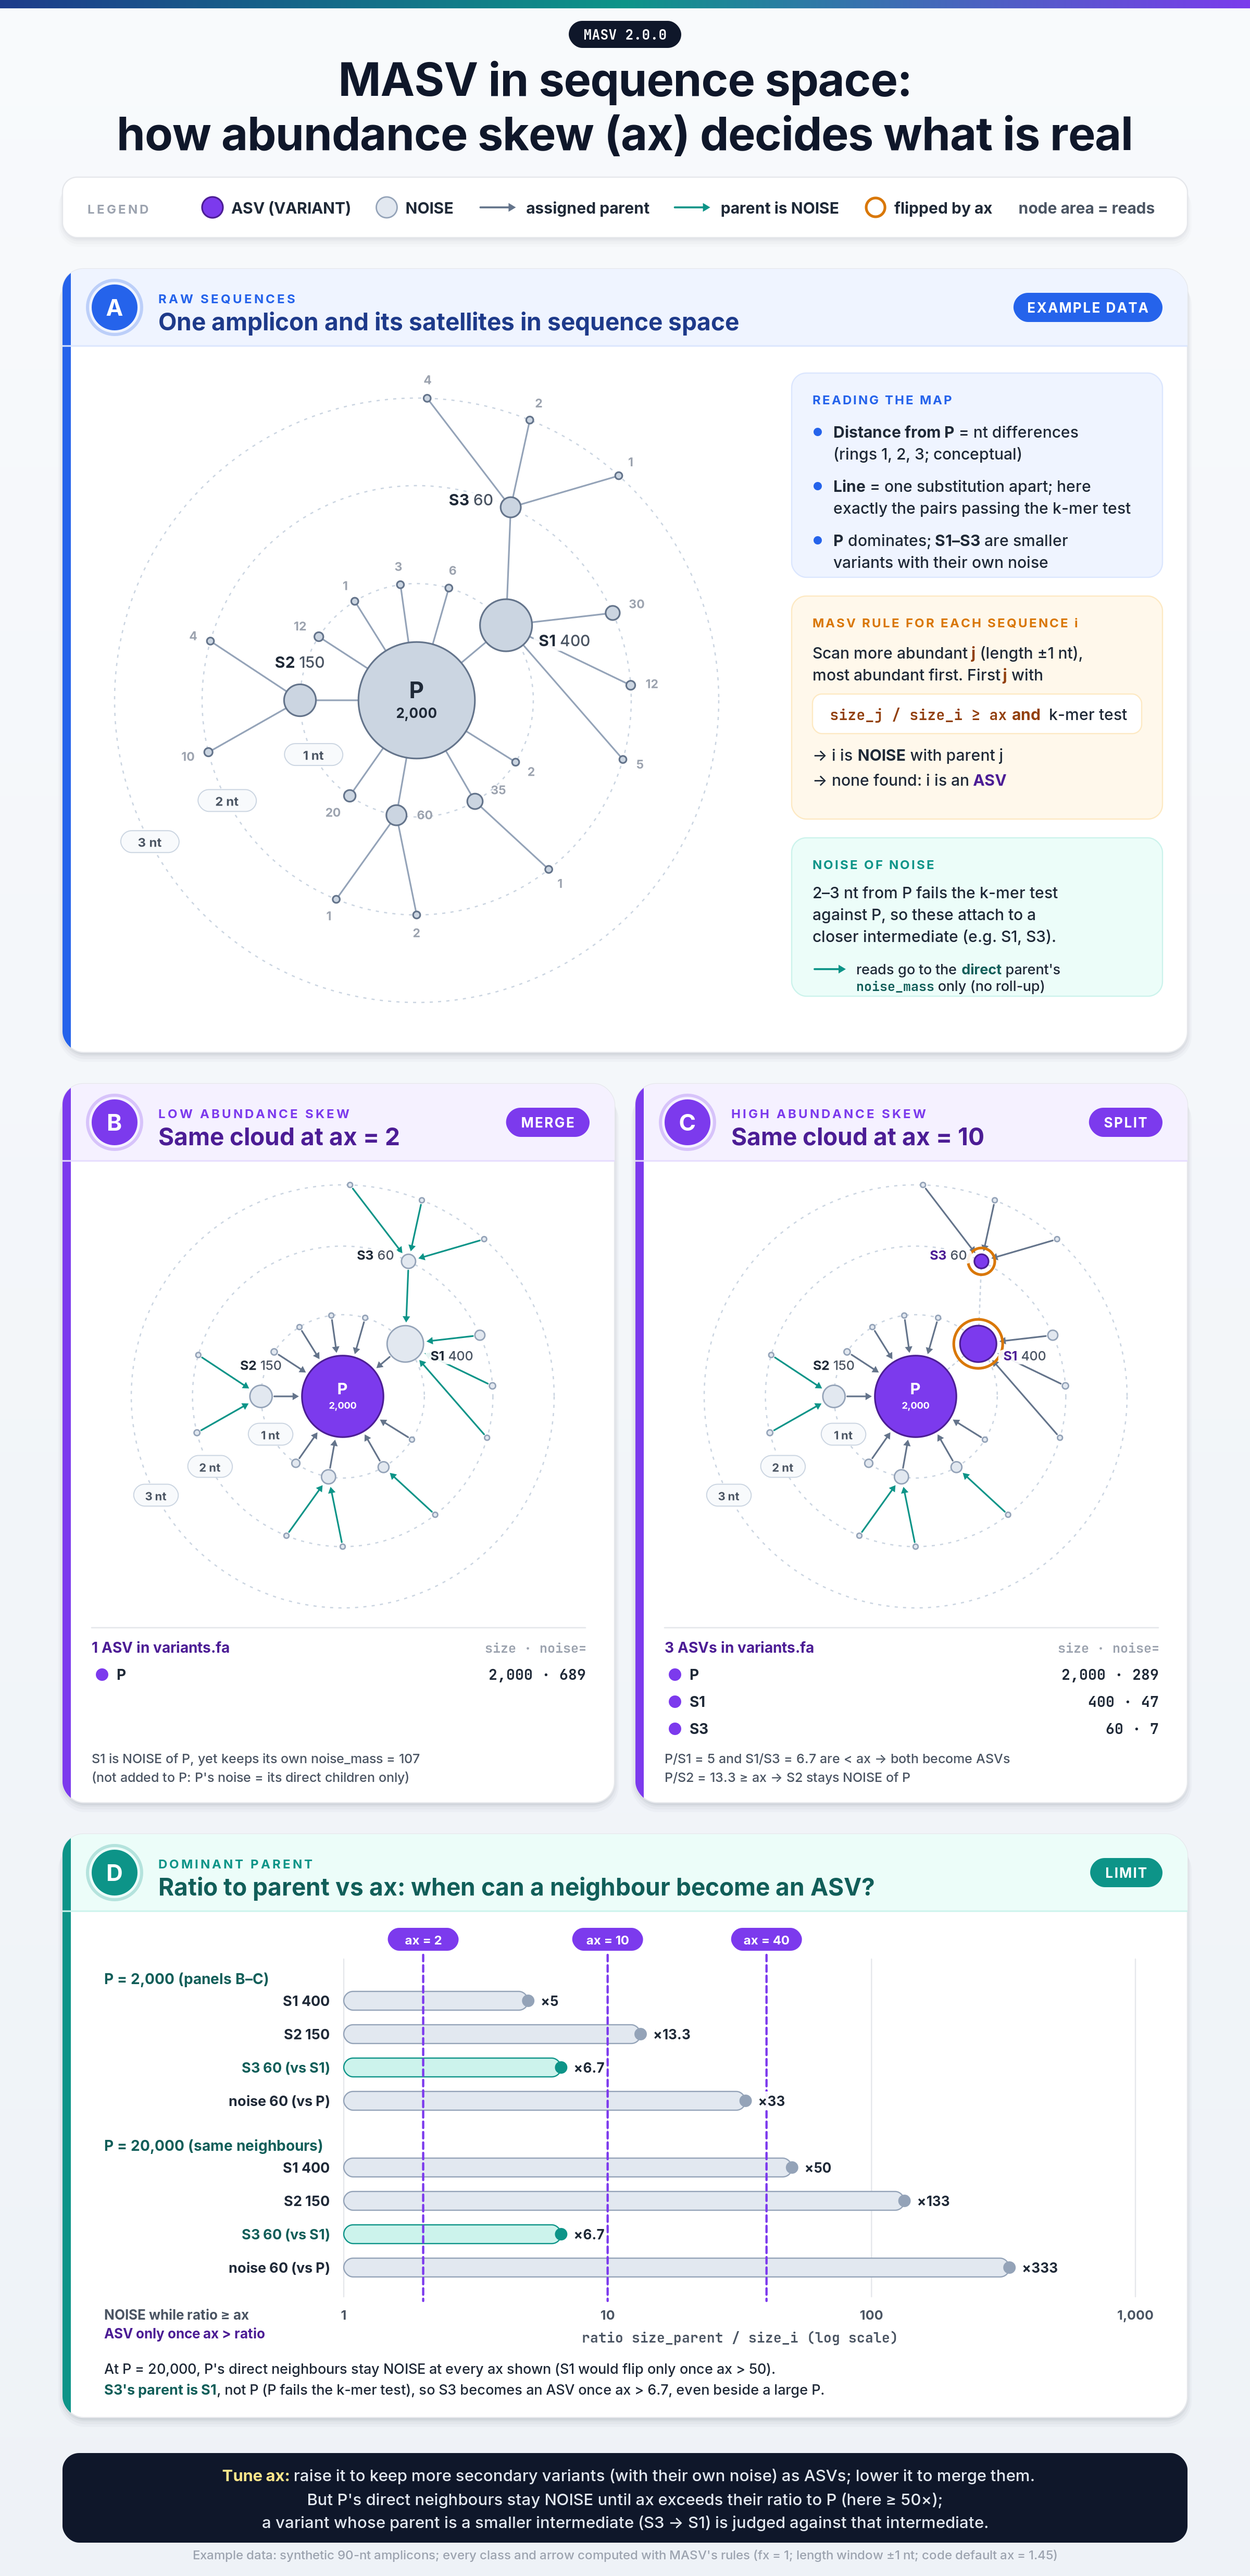
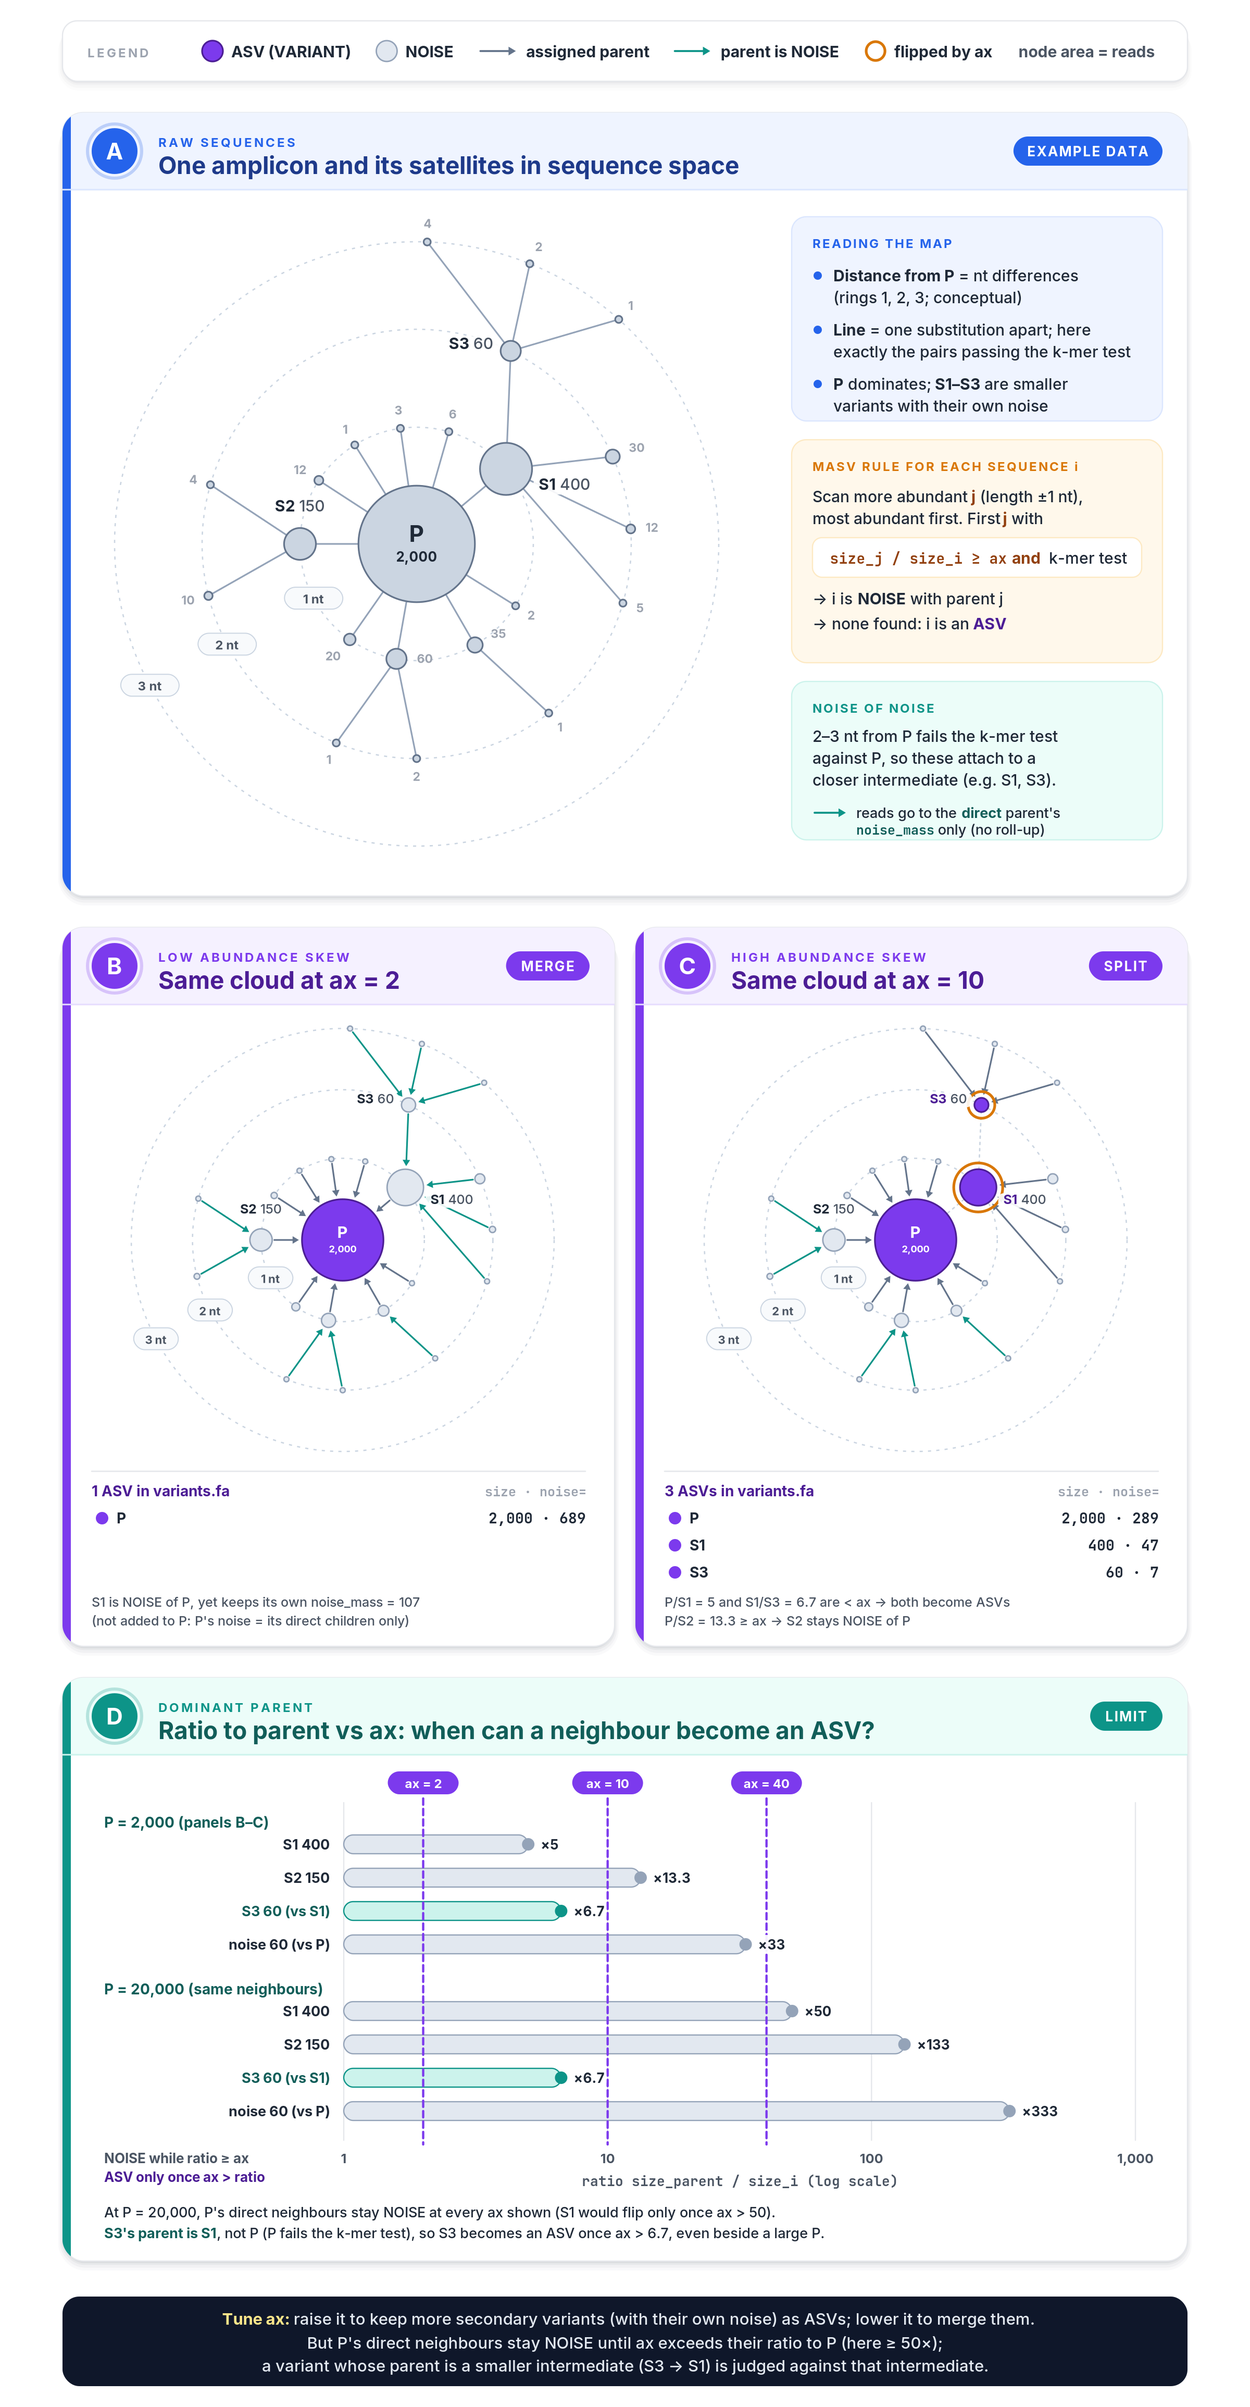
Use the title-free README figures.
Replace the four workflow and sequence-space images with the two plain 2400 px versions, and point the README at those files.

diff --git a/README.md b/README.md
@@ -54,9 +54,9 @@ A demo is coming soon.
 
 <p align="center">
   <a href="docs/img/masv-workflow.png">
-    <img src="docs/img/masv-workflow-1600.png" width="100%" alt="MASV workflow: 1 data ingestion and sorting, 2 k-mer profiling, 3 MASV algorithm, 4 binary partition and mass accumulation, 5 final classification">
+    <img src="docs/img/masv-workflow.png" width="100%" alt="MASV workflow: 1 data ingestion and sorting, 2 k-mer profiling, 3 MASV algorithm, 4 binary partition and mass accumulation, 5 final classification">
   </a>
-  <br><sub>The default ax is 2. Click for the full-resolution figure.</sub>
+  <br><sub>The default ax is 2.</sub>
 </p>
 
 1. **Ingest and sort.** MASV dereplicates the reads and sorts the unique sequences from most to least abundant.
@@ -73,9 +73,9 @@ A demo is coming soon.
 
 <p align="center">
   <a href="docs/img/masv-sequence-space.png">
-    <img src="docs/img/masv-sequence-space-1600.png" width="100%" alt="MASV in sequence space: how the abundance ratio ax decides which sequences are ASVs and which are noise">
+    <img src="docs/img/masv-sequence-space.png" width="100%" alt="MASV in sequence space: how the abundance ratio ax decides which sequences are ASVs and which are noise">
   </a>
-  <br><sub>The default ax is 2. Click for the full-resolution figure.</sub>
+  <br><sub>The default ax is 2.</sub>
 </p>
 
 `ax` (`-a`) is the setting with the most influence on the result. **Raising ax** keeps more secondary variants as ASVs, along with their own noise. **Lowering ax** merges them into their dominant parent. Even so, when a parent is very abundant, its close neighbors stay noise until `ax` is larger than their abundance ratio to that parent. That's why it pays to try a few values on your own data.
